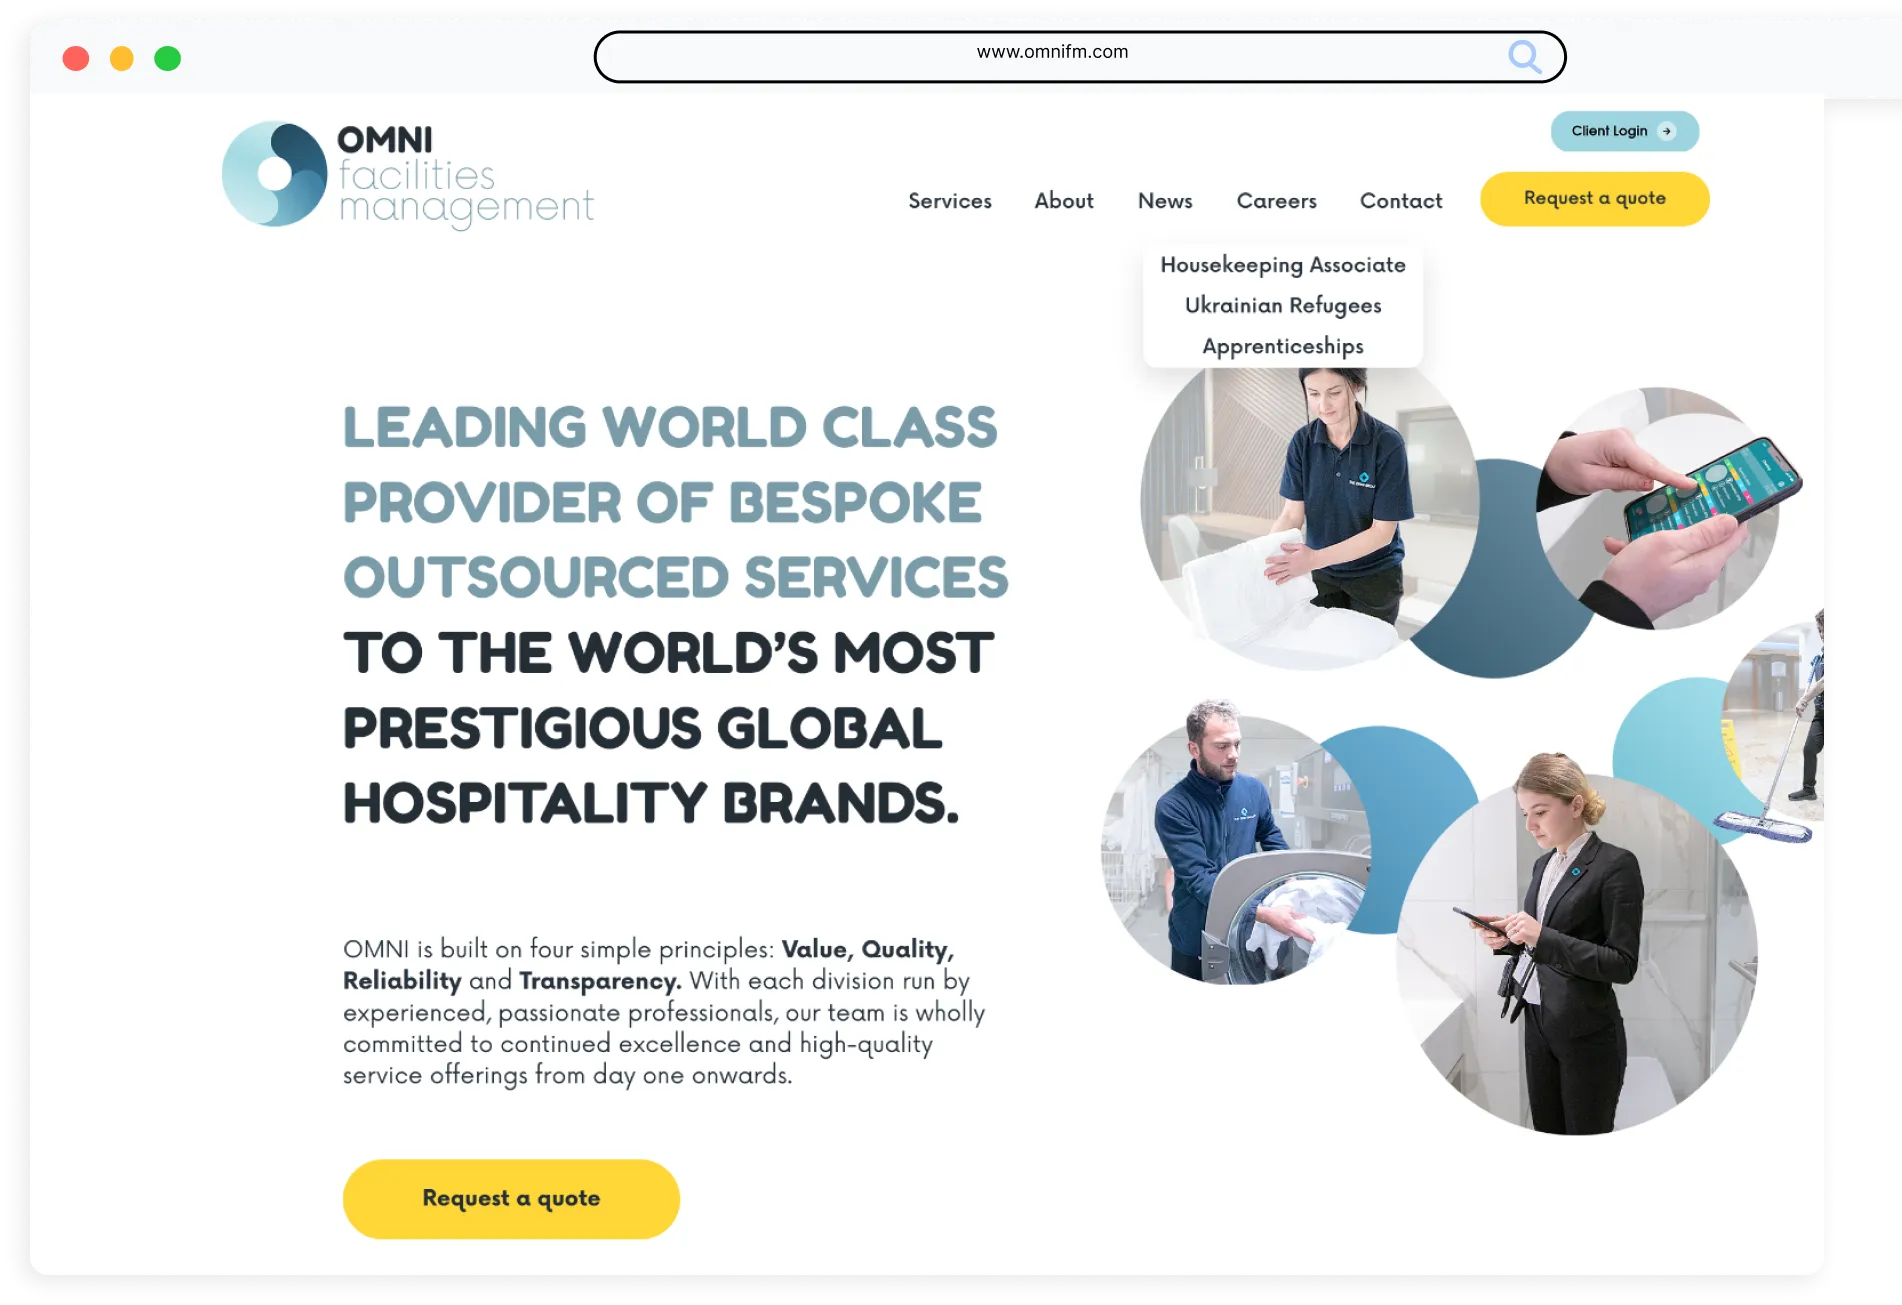
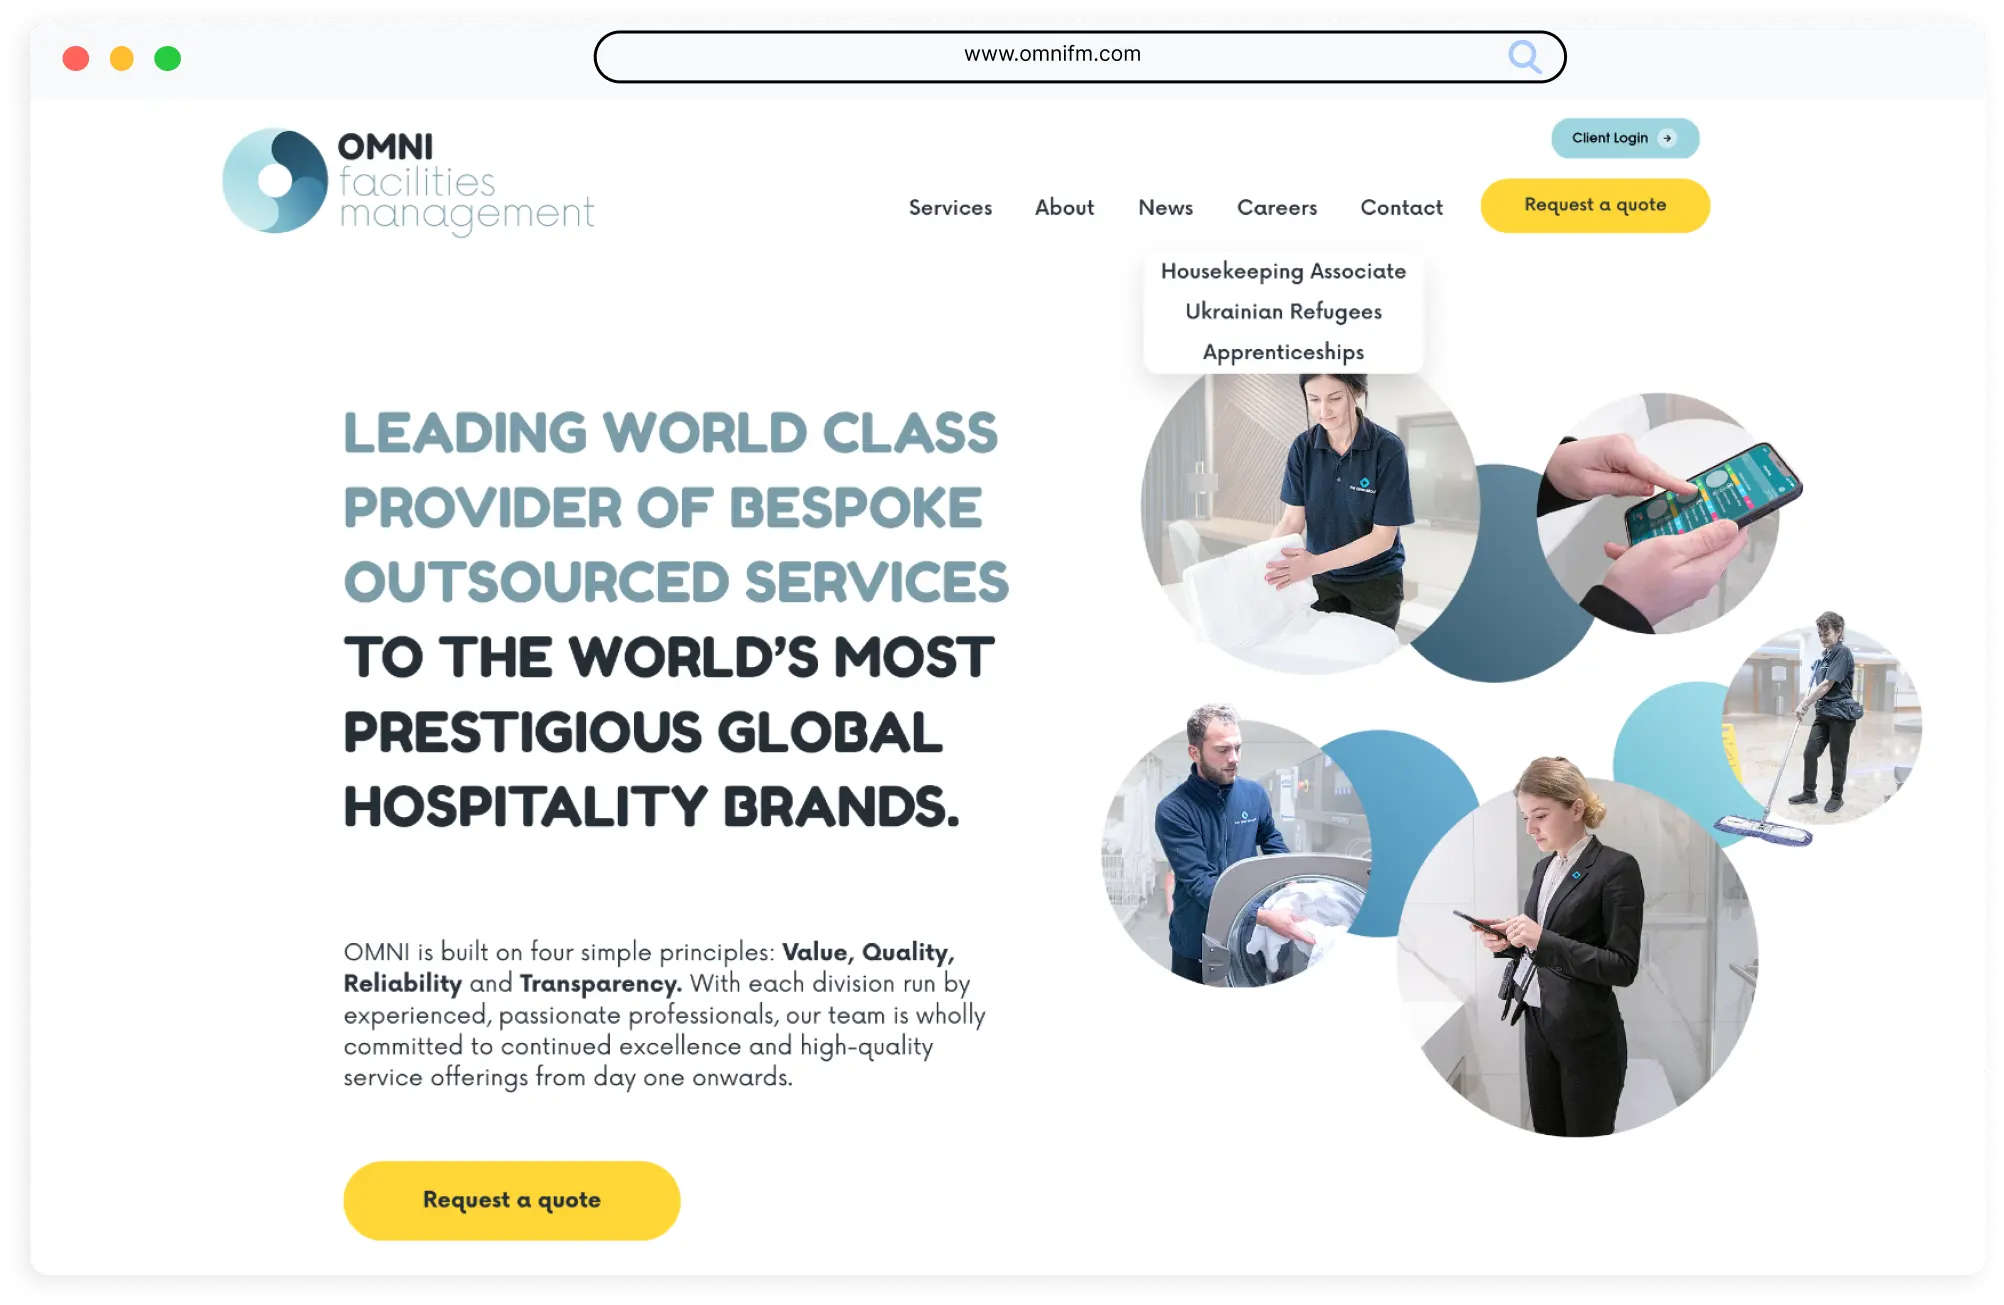
fix responsive

diff --git a/assets/css/index.css b/assets/css/index.css
@@ -1833,7 +1833,7 @@
  /* // Relevant styles */
 
  .banner-container .image-stack img {
-     width: 100%;
+     width: 110%;
      display: block;
  }
 
@@ -3474,7 +3474,7 @@
 
  .gouk__search #search-active {
      display: none;
-     width: min(610px, 100%);
+     width: min(688px, 100%);
      float: right;
      padding-bottom: 10px;
  }
@@ -3606,6 +3606,7 @@
      border-color: #F5C118 !important;
      border-left: 4px solid;
      padding-left: 10px;
+     display: block;
  }
 
  .sidebar .sidebar-body ul {

diff --git a/template-parts/blog/category.php b/template-parts/blog/category.php
@@ -64,7 +64,12 @@ function get_category_uri($category)
                                             </div>
                                         </div>
                                         <span class=" icon-close w-5" id="icon-close-btn">
-                                            x
+                                            <svg xmlns="http://www.w3.org/2000/svg" width="26" height="26"
+                                                viewBox="0 0 26 26" fill="none">
+                                                <path
+                                                    d="M19.5008 6.50005C19.2976 6.29695 19.0221 6.18286 18.7349 6.18286C18.4476 6.18286 18.1721 6.29695 17.9689 6.50005L13.0008 11.4682L8.03261 6.50005C7.82946 6.29695 7.55396 6.18286 7.2667 6.18286C6.97943 6.18286 6.70393 6.29695 6.50078 6.50005C6.29769 6.7032 6.18359 6.9787 6.18359 7.26596C6.18359 7.55322 6.29769 7.82873 6.50078 8.03188L11.4689 13L6.50078 17.9682C6.29769 18.1714 6.18359 18.4469 6.18359 18.7341C6.18359 19.0214 6.29769 19.2969 6.50078 19.5C6.70393 19.7031 6.97943 19.8172 7.2667 19.8172C7.55396 19.8172 7.82946 19.7031 8.03261 19.5L13.0008 14.5319L17.9689 19.5C18.1721 19.7031 18.4476 19.8172 18.7349 19.8172C19.0221 19.8172 19.2976 19.7031 19.5008 19.5C19.7039 19.2969 19.818 19.0214 19.818 18.7341C19.818 18.4469 19.7039 18.1714 19.5008 17.9682L14.5326 13L19.5008 8.03188C19.7039 7.82873 19.818 7.55322 19.818 7.26596C19.818 6.9787 19.7039 6.7032 19.5008 6.50005Z"
+                                                    fill="#303030" />
+                                            </svg>
                                         </span>
                                     </div>
                                 </div>

diff --git a/template-parts/services/what-golden-owl-guarantee-to-you.php b/template-parts/services/what-golden-owl-guarantee-to-you.php
@@ -1,4 +1,4 @@
-<section>
+<section style="margin-top:130px">
     <div class="row mx-auto">
         <div class="Frame34901 row __px-100px w-100 py-5 justify-content-between flex-wrap">
             <div class="Frame34697 pb-5 col-12 col-md-5">

diff --git a/template-parts/services/golden-owls-services.php b/template-parts/services/golden-owls-services.php
@@ -1,4 +1,4 @@
-<section>
+<section class="overflow-hidden">
     <div class="row mx-auto">
         <div class="__px-100px py-5 container-fluid">
             <div class="row mx-auto">
